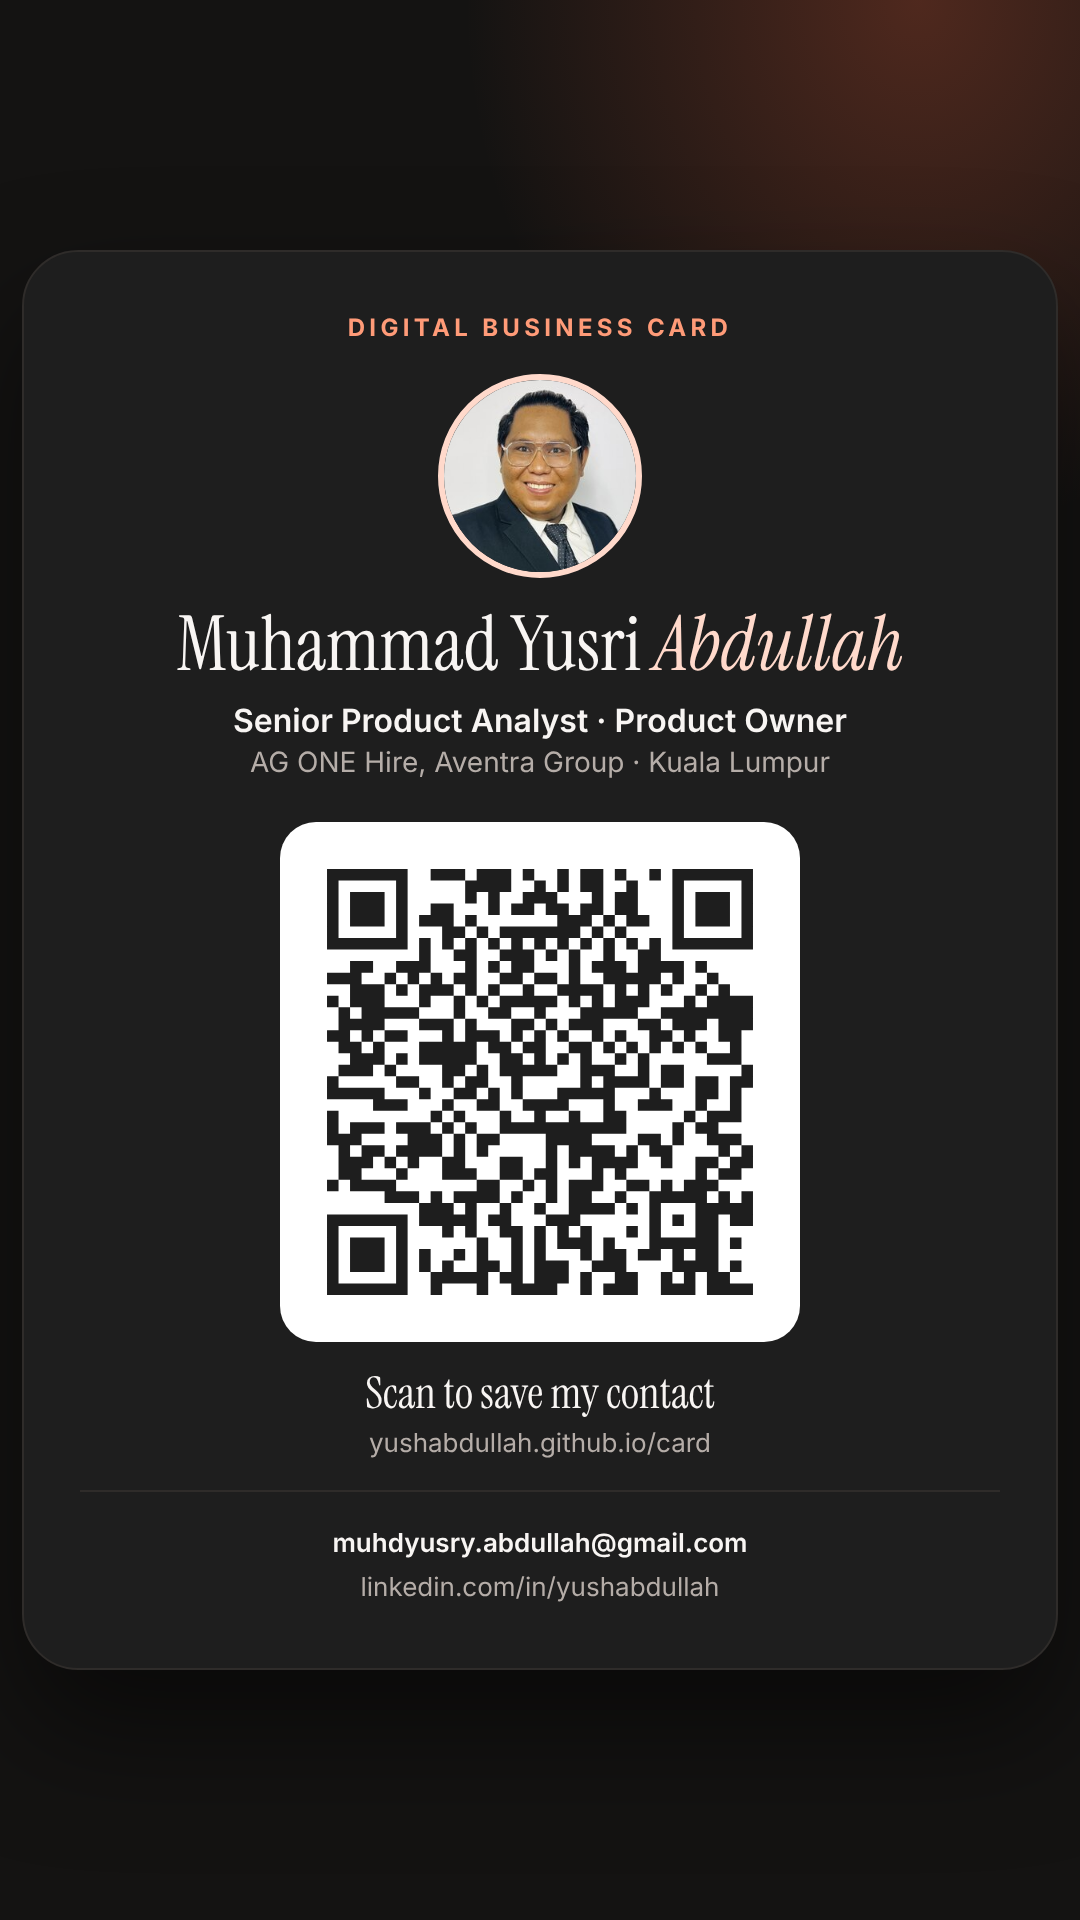
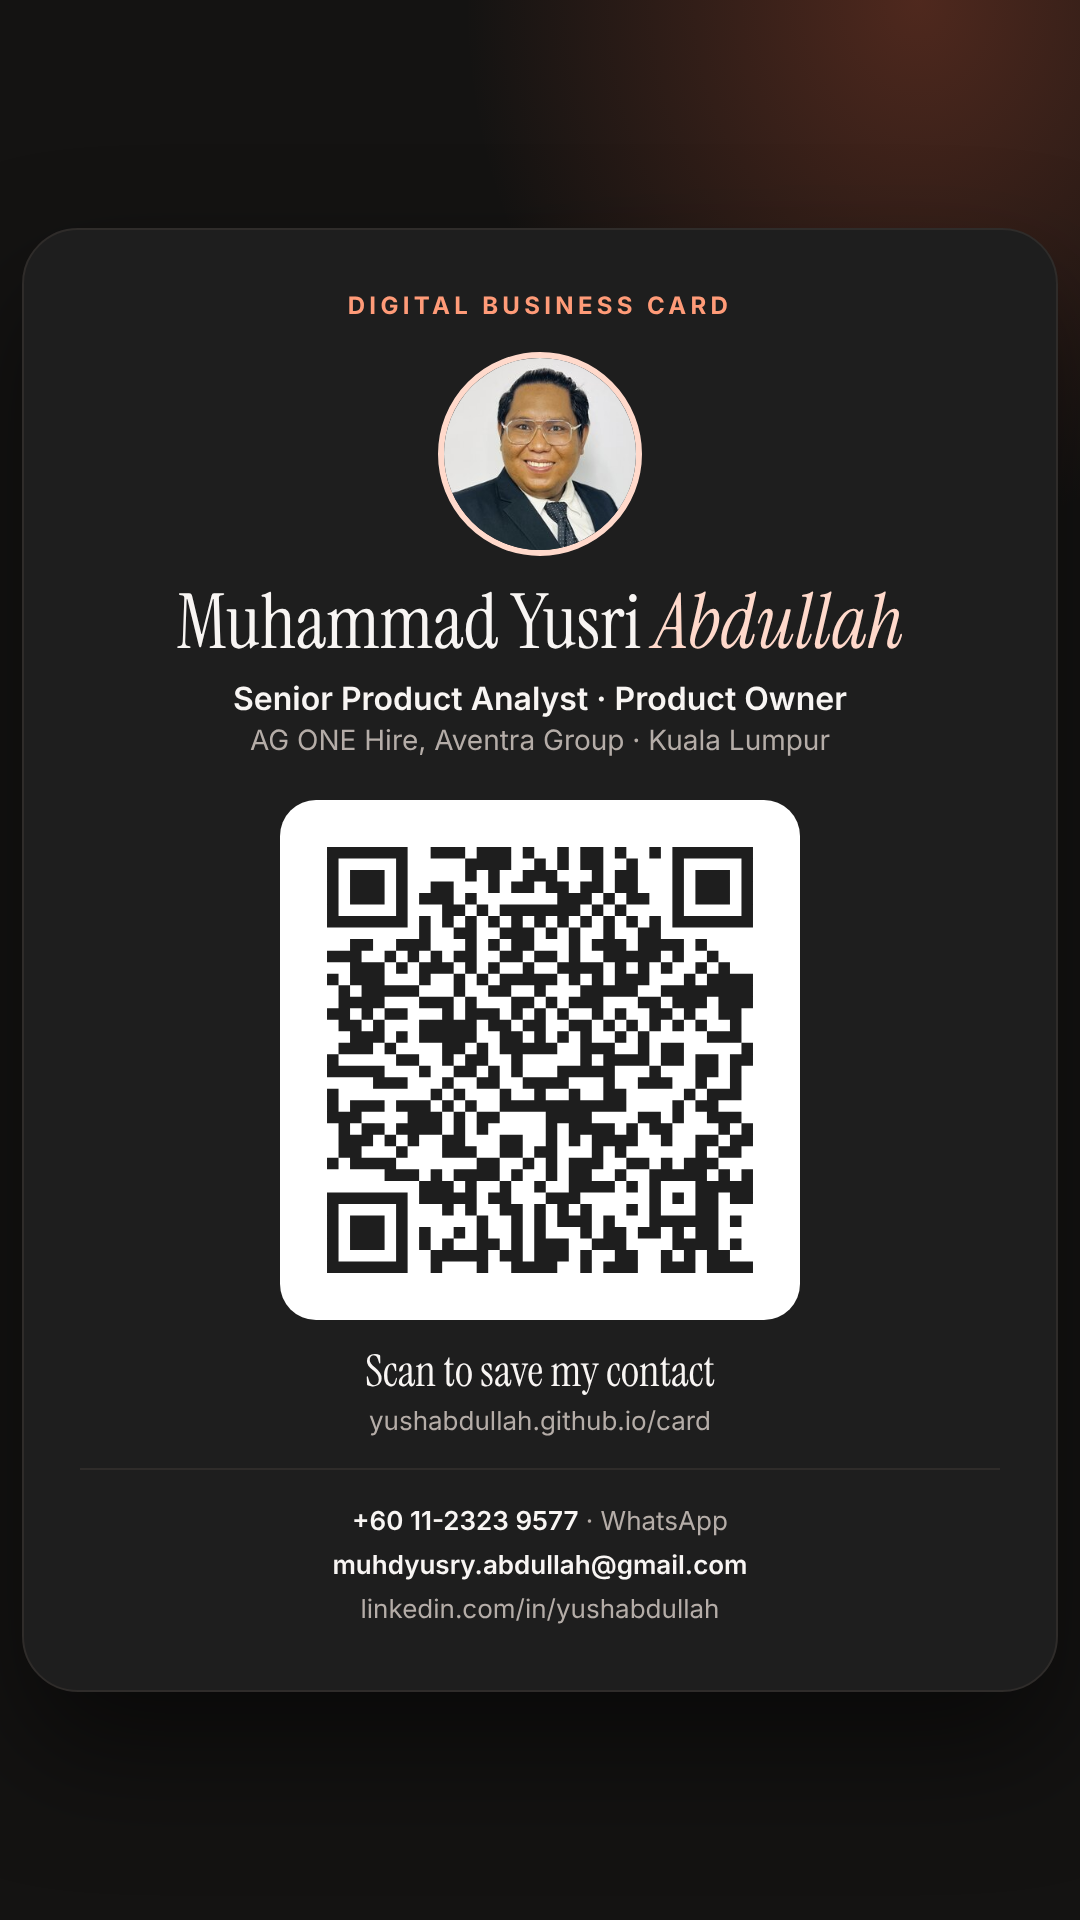
eCard: add phone and WhatsApp
Call and WhatsApp buttons and list rows on /card/, TEL and WhatsApp URL
in the vCard, and the number on the e-wallet image.

Claude-Session: https://claude.ai/code/session_01C2vH42V3nqu5gxyAtxtg53

Changed region(s): [[0.1528, 0.1562, 0.8556, 0.8438], [0.2444, 0.6562, 0.275, 0.6875]]

diff --git a/card/index.html b/card/index.html
@@ -89,11 +89,17 @@ h1 em{color:var(--peach)}
       Save to contacts
     </a>
     <div class="row">
+      <a class="act" href="tel:+601123239577"><svg viewBox="0 0 24 24" width="20" height="20" aria-hidden="true"><path fill="currentColor" d="M6.6 10.8a15.1 15.1 0 0 0 6.6 6.6l2.2-2.2a1 1 0 0 1 1-.25 11.4 11.4 0 0 0 3.6.57 1 1 0 0 1 1 1V20a1 1 0 0 1-1 1A17 17 0 0 1 3 4a1 1 0 0 1 1-1h3.5a1 1 0 0 1 1 1c0 1.25.2 2.45.57 3.57a1 1 0 0 1-.25 1z"/></svg><span>Call</span></a>
+      <a class="act" href="https://wa.me/601123239577" target="_blank" rel="noopener"><svg viewBox="0 0 24 24" width="20" height="20" aria-hidden="true"><path fill="currentColor" d="M12 2a10 10 0 0 0-8.6 15.1L2 22l5-1.3A10 10 0 1 0 12 2zm0 18.2a8.2 8.2 0 0 1-4.2-1.15l-.3-.18-3 .78.8-2.9-.2-.3A8.2 8.2 0 1 1 12 20.2zm4.5-6.1c-.25-.12-1.47-.72-1.7-.8s-.39-.12-.56.12-.64.8-.78.97-.29.18-.54.06a6.7 6.7 0 0 1-3.3-2.9c-.25-.43.25-.4.71-1.33a.45.45 0 0 0-.02-.43c-.06-.12-.56-1.34-.76-1.84s-.4-.42-.56-.42h-.47a.9.9 0 0 0-.66.3 2.8 2.8 0 0 0-.86 2.06 4.8 4.8 0 0 0 1 2.56 11 11 0 0 0 4.2 3.7c1.56.68 2.17.73 2.95.62a2.5 2.5 0 0 0 1.66-1.17 2 2 0 0 0 .14-1.17c-.06-.1-.22-.16-.47-.28z"/></svg><span>WhatsApp</span></a>
+    </div>
+    <div class="row">
       <button class="act" type="button" id="share"><svg viewBox="0 0 24 24" width="20" height="20" aria-hidden="true"><path fill="currentColor" d="M18 16.1c-.8 0-1.5.3-2 .8l-7.1-4.1c.1-.3.1-.5.1-.8s0-.5-.1-.8L16 7.1c.5.5 1.2.8 2 .8a3 3 0 1 0-3-3c0 .3 0 .5.1.8L8 9.8A3 3 0 1 0 8 14.2l7.1 4.1c-.1.2-.1.5-.1.7a3 3 0 1 0 3-2.9z"/></svg><span>Share card</span></button>
-      <a class="act" href="wallet-card.png" download="Yusri-Abdullah-eCard.png"><svg viewBox="0 0 24 24" width="20" height="20" aria-hidden="true"><path fill="currentColor" d="M21 7.3V5a2 2 0 0 0-2-2H5a2 2 0 0 0-2 2v14a2 2 0 0 0 2 2h14a2 2 0 0 0 2-2v-2.3A2 2 0 0 0 22 15V9a2 2 0 0 0-1-1.7zM20 9v6h-7V9zM5 19V5h14v2h-6a2 2 0 0 0-2 2v6a2 2 0 0 0 2 2h6v2zm11-5.5a1.5 1.5 0 1 0 0-3 1.5 1.5 0 0 0 0 3z"/></svg><span>Wallet image</span></a>
+      <a class="act" href="wallet-card.png" download="Yusri-Abdullah-eCard.png"><svg viewBox="0 0 24 24" width="20" height="20" aria-hidden="true"><path fill="currentColor" d="M21 7.3V5a2 2 0 0 0-2-2H5a2 2 0 0 0-2 2v14a2 2 0 0 0 2 2h14a2 2 0 0 0 2-2v-2.3A2 2 0 0 0 22 15V9a2 2 0 0 0-1-1.7zM20 9v6h-7V9zM5 19V5h14v2h-6a2 2 0 0 0-2 2v6a2 2 0 0 0 2 2h6v2zm11-5.5a1.5 1.5 0 1 0 0-3 1.5 1.5 0 0 0 0 3z"/></svg><span>Save image</span></a>
     </div>
 
     <nav class="links" aria-label="Profiles">
+      <a href="tel:+601123239577"><svg viewBox="0 0 24 24" width="20" height="20" aria-hidden="true"><path fill="currentColor" d="M6.6 10.8a15.1 15.1 0 0 0 6.6 6.6l2.2-2.2a1 1 0 0 1 1-.25 11.4 11.4 0 0 0 3.6.57 1 1 0 0 1 1 1V20a1 1 0 0 1-1 1A17 17 0 0 1 3 4a1 1 0 0 1 1-1h3.5a1 1 0 0 1 1 1c0 1.25.2 2.45.57 3.57a1 1 0 0 1-.25 1z"/></svg><div><b>Phone</b><small>+60 11-2323 9577</small></div><span class="chev" aria-hidden="true">›</span></a>
+      <a href="https://wa.me/601123239577" target="_blank" rel="noopener"><svg viewBox="0 0 24 24" width="20" height="20" aria-hidden="true"><path fill="currentColor" d="M12 2a10 10 0 0 0-8.6 15.1L2 22l5-1.3A10 10 0 1 0 12 2zm0 18.2a8.2 8.2 0 0 1-4.2-1.15l-.3-.18-3 .78.8-2.9-.2-.3A8.2 8.2 0 1 1 12 20.2zm4.5-6.1c-.25-.12-1.47-.72-1.7-.8s-.39-.12-.56.12-.64.8-.78.97-.29.18-.54.06a6.7 6.7 0 0 1-3.3-2.9c-.25-.43.25-.4.71-1.33a.45.45 0 0 0-.02-.43c-.06-.12-.56-1.34-.76-1.84s-.4-.42-.56-.42h-.47a.9.9 0 0 0-.66.3 2.8 2.8 0 0 0-.86 2.06 4.8 4.8 0 0 0 1 2.56 11 11 0 0 0 4.2 3.7c1.56.68 2.17.73 2.95.62a2.5 2.5 0 0 0 1.66-1.17 2 2 0 0 0 .14-1.17c-.06-.1-.22-.16-.47-.28z"/></svg><div><b>WhatsApp</b><small>+60 11-2323 9577</small></div><span class="chev" aria-hidden="true">›</span></a>
       <a href="mailto:muhdyusry.abdullah@gmail.com"><svg viewBox="0 0 24 24" width="20" height="20" aria-hidden="true"><path fill="currentColor" d="M20 4H4a2 2 0 0 0-2 2v12a2 2 0 0 0 2 2h16a2 2 0 0 0 2-2V6a2 2 0 0 0-2-2zm0 4.2-8 5-8-5V6l8 5 8-5v2.2z"/></svg><div><b>Email</b><small>muhdyusry.abdullah@gmail.com</small></div><span class="chev" aria-hidden="true">›</span></a>
       <a href="https://www.linkedin.com/in/yushabdullah" target="_blank" rel="noopener"><svg viewBox="0 0 24 24" width="20" height="20" aria-hidden="true"><path fill="currentColor" d="M4.98 3.5a2.5 2.5 0 1 1 0 5 2.5 2.5 0 0 1 0-5zM3 9.75h4v11H3v-11zm6.5 0h3.83v1.5h.06c.53-1 1.84-2.06 3.79-2.06 4.05 0 4.8 2.67 4.8 6.13v5.43h-4v-4.82c0-1.15-.02-2.63-1.6-2.63-1.6 0-1.85 1.25-1.85 2.55v4.9h-4v-11z"/></svg><div><b>LinkedIn</b><small>linkedin.com/in/yushabdullah</small></div><span class="chev" aria-hidden="true">›</span></a>
       <a href="../"><svg viewBox="0 0 24 24" width="20" height="20" aria-hidden="true"><path fill="currentColor" d="M4 4h16v12H4zm-2 14h20v2H2z"/></svg><div><b>Portfolio</b><small>yushabdullah.github.io</small></div><span class="chev" aria-hidden="true">›</span></a>
